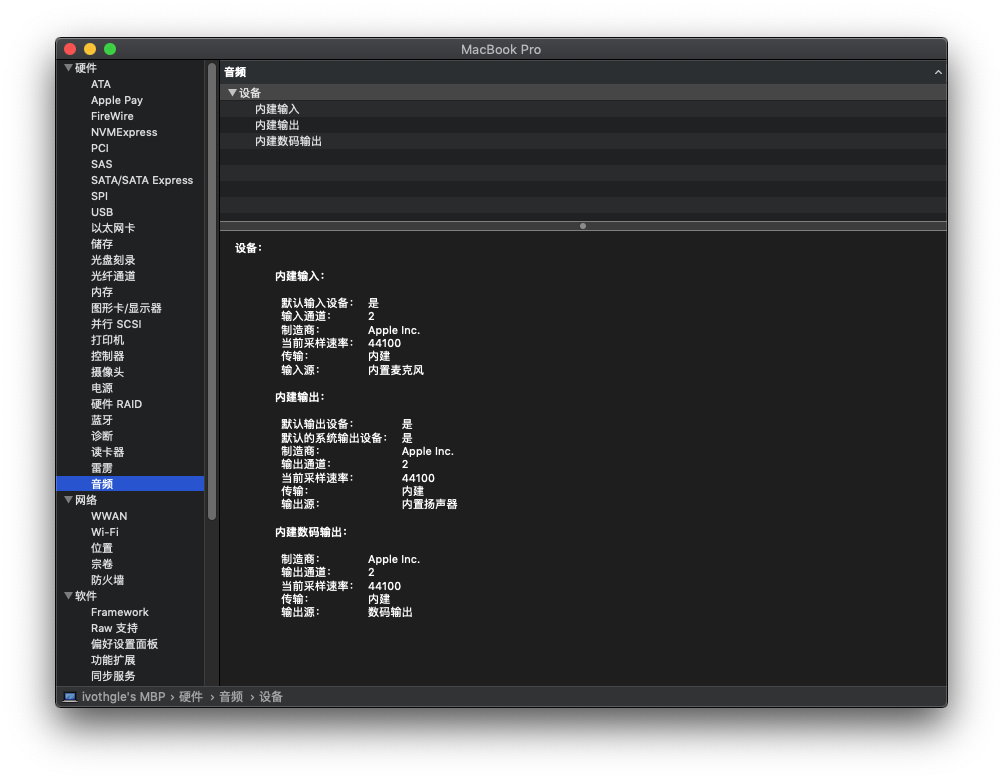
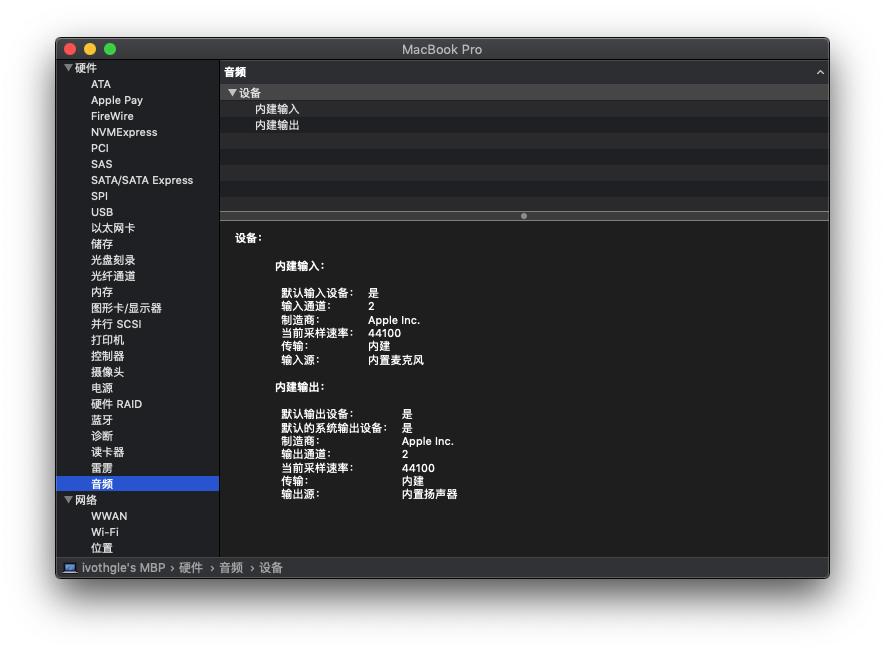
Updated layout-id to 65 Updated system to 10.14.5

Changed region(s): [[0.0305, 0.0307, 0.9763, 0.9509]]

diff --git a/README.md b/README.md
@@ -8,7 +8,7 @@
 | 处理器   | Intel Core i5-4210M @ 2.60GHz 双核 |
 | 显卡     | Intel HD Graphics 4600             |
 | 显示器   | 三星 1920x1080 (15.6 英寸)         |
-| 声卡     | VIA VT10802 (节点:3/33)            |
+| 声卡     | VIA VT10802 (节点:3/33/65)            |
 | 网卡     | 英特尔网卡已更换为 BCM95352HMB     |
 | 蓝牙     | 使用 BCM95352HMB                   |
 
@@ -62,13 +62,14 @@
 > | ------- | -------------- | ---------------------------------- | ----- |
 > | 20      | WLAN_DISABLE_L | WLAN disable control (Active low). | Input |
 > | 51      | BT_DISABLE_L   | BT disable control (Active low).   | Input |
+>
 > [查看针脚位置图片](https://www.tenforums.com/network-sharing/115932-intel-ac-7260-wi-fi-pci-e-asus-g73sw-laptop-win10-pro-64-no-go-2.html#post1438095)
 
 
 
 屏蔽独显和亮度键修复使用 hotpatch 补丁， 如使用 `ApplePS2SmartTouchPad.kext` 驱动的话可能导致亮度键无效。
 
-
+更新 `AppleALC.kext` 到 `1.3.8` 后，可使用 layout-id 65。
 
 ## 鸣谢
 
